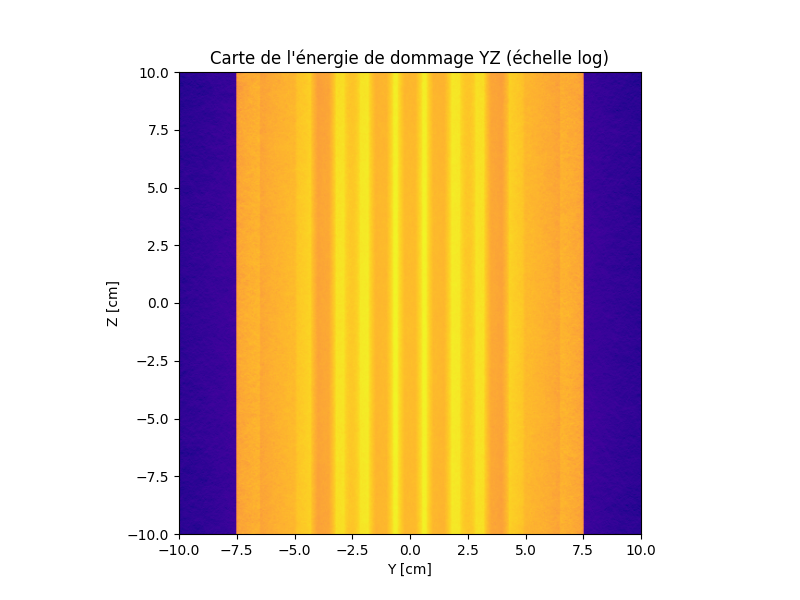
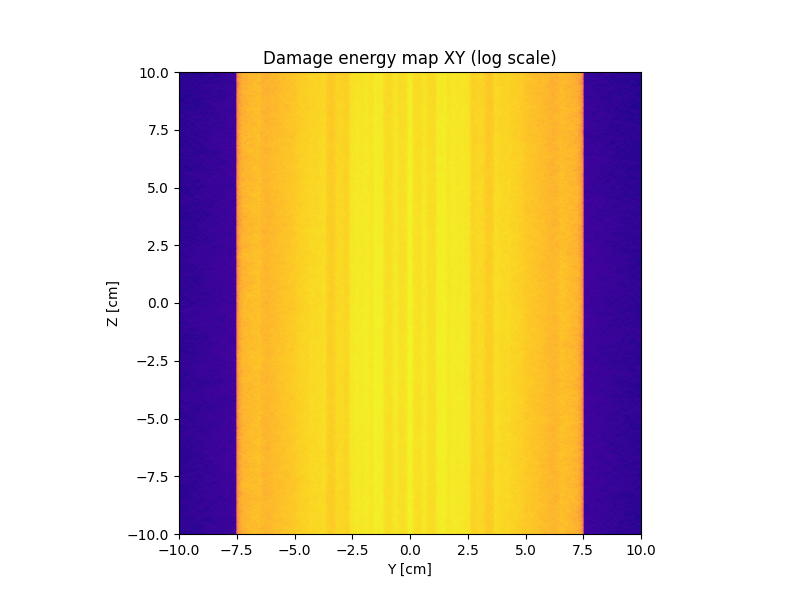
feat: add_general_prepost_func

Changed region(s): [[0.25, 0.06, 0.75, 0.9]]

diff --git a/src/studies/lattice_fuel/core.py b/src/studies/lattice_fuel/core.py
@@ -14,7 +14,7 @@ project_root = Path(__file__).resolve().parents[3]
 sys.path.append(str(project_root))
 from parameters.parameters_paths import PATH_TO_CROSS_SECTIONS
 from parameters.parameters_materials import FUEL_MATERIAL, HELIUM_MATERIAL, AIR_MATERIAL, CONCRETE_MATERIAL, GRAPHITE_MATERIAL, STEEL_MATERIAL, WATER_MATERIAL
-from src.utils.pre_processing.pre_processing import (remove_previous_results, parallelepiped, plot_geometry, mesh_tally_xy, mesh_tally_yz, 
+from src.utils.pre_processing.pre_processing import (remove_previous_results, parallelepiped, plot_geometry, mesh_tally_plane,
                                                      dammage_energy_mesh_xy, dammage_energy_mesh_yz, mesh_tally_dose_xy)
 from src.utils.post_preocessing.post_processing import load_mesh_tally, load_dammage_energy_tally, load_mesh_tally_dose
 os.environ["OPENMC_CROSS_SECTIONS"] = PATH_TO_CROSS_SECTIONS
@@ -37,7 +37,7 @@ plot_geometry(materials = material, plane="yz", width=70, height=70)
 
 # Calcul de criticité simple 
 settings = openmc.Settings()
-batches_number= 300
+batches_number= 90
 settings.batches = batches_number
 settings.inactive = 20
 settings.particles = 20000
@@ -65,29 +65,40 @@ nu_fission_tally.filters = [openmc.CellFilter(main_cell)]
 tallies = openmc.Tallies([tally, fission_tally, nu_fission_tally])
 
 # Mesh tally for neutron flux in a specific region
-mesh_tally_neutron_xy = mesh_tally_xy(name_mesh_tally = "flux_mesh_neutrons_xy", particule_type='neutron', 
+mesh_tally_neutron_xy = mesh_tally_plane(name_mesh_tally = "flux_mesh_neutrons_xy", particule_type='neutron', plane="xy",
                                       bin_number=400, lower_left=(-10.0, -10.0), upper_right=(10.0, 10.0),
-                                      z_thickness= 4.0, z_value=0.0)
+                                      thickness= 4.0, coord_value=0.0)
 tallies.append(mesh_tally_neutron_xy)
 
-mesh_tally_photon_xy = mesh_tally_xy(name_mesh_tally = "flux_mesh_photons_xy", particule_type='photon', 
-                                     bin_number=400, lower_left=(-10.0, -10.0), upper_right=(10.0, 10.0),
-                                     z_thickness= 4.0, z_value=0.0)
+mesh_tally_photon_xy = mesh_tally_plane(name_mesh_tally = "flux_mesh_photons_xy", particule_type='photon', plane="xy",
+                                      bin_number=400, lower_left=(-10.0, -10.0), upper_right=(10.0, 10.0),
+                                      thickness= 4.0, coord_value=0.0)
 tallies.append(mesh_tally_photon_xy)
 
-mesh_tally_neutron_yz = mesh_tally_yz(name_mesh_tally = "flux_mesh_neutrons_yz", particule_type='neutron', 
-                                      bin_number=1000, lower_left=(-10.0, -10.0), upper_right=(10.0, 10.0))
+mesh_tally_neutron_yz = mesh_tally_plane(name_mesh_tally = "flux_mesh_neutrons_yz", particule_type='neutron', plane="yz",
+                                      bin_number=400, lower_left=(-10.0, -10.0), upper_right=(10.0, 10.0),
+                                      thickness= 4.0, coord_value=0.0)
 tallies.append(mesh_tally_neutron_yz)
 
-mesh_tally_photon_yz = mesh_tally_yz(name_mesh_tally = "flux_mesh_photons_yz", particule_type='photon', 
-                                     bin_number=1000, lower_left=(-10.0, -10.0), upper_right=(10.0, 10.0))
+mesh_tally_photon_yz = mesh_tally_plane(name_mesh_tally = "flux_mesh_photons_yz", particule_type='photon', plane="yz",
+                                      bin_number=400, lower_left=(-10.0, -10.0), upper_right=(10.0, 10.0),
+                                      thickness= 4.0, coord_value=0.0)
 tallies.append(mesh_tally_photon_yz)
 
-dammage_energy_tally_xy = dammage_energy_mesh_xy(name_mesh_tally="dammage_energy_mesh_xy", bin_number=500, lower_left=(-10.0, -10.0), upper_right=(10.0, 10.0), z_value=0.0, z_thickness=4.0)
+
+dammage_energy_tally_xy = mesh_tally_plane(name_mesh_tally="dammage_energy_mesh_xy", bin_number=500, score='damage-energy', 
+                                           particule_type='all', plane="xy", lower_left=(-10.0, -10.0), 
+                                           upper_right=(10.0, 10.0), coord_value=0.0, thickness=4.0)
 tallies.append(dammage_energy_tally_xy)
 
-dommage_energy_tally_yz = dammage_energy_mesh_yz(name_mesh_tally="dammage_energy_mesh_yz", bin_number=500, lower_left=(-10.0, -10.0), upper_right=(10.0, 10.0), x_value=0.0, x_thickness=1.0)
-tallies.append(dommage_energy_tally_yz)
+dammage_energy_tally_yz = mesh_tally_plane(name_mesh_tally="dammage_energy_mesh_yz", bin_number=500, score='damage-energy', 
+                                           particule_type='all', plane="yz", lower_left=(-10.0, -10.0), 
+                                           upper_right=(10.0, 10.0), coord_value=0.0, thickness=4.0)
+tallies.append(dammage_energy_tally_yz)
+
+
+# dommage_energy_tally_yz = dammage_energy_mesh_yz(name_mesh_tally="dammage_energy_mesh_yz", bin_number=500, lower_left=(-10.0, -10.0), upper_right=(10.0, 10.0), x_value=0.0, x_thickness=1.0)
+# tallies.append(dommage_energy_tally_yz)
 
 mesh_tally_neutron_xy_dose = mesh_tally_dose_xy(name_mesh_tally = "flux_mesh_neutrons_xy_dose", particule_type='neutron', 
                                       bin_number=400, lower_left=(-10.0, -10.0), upper_right=(10.0, 10.0),
@@ -171,14 +182,16 @@ with open(CWD / "simulation_results.json", "w") as f:
 
 ### mesh tallty ####
 
-load_mesh_tally(cwd = CWD, statepoint_file = statepoint_file, name_mesh_tally="flux_mesh_neutrons_xy")
+load_mesh_tally(cwd = CWD, statepoint_file = statepoint_file, name_mesh_tally="flux_mesh_neutrons_xy", particule_type="neutron", bin_number=400,
+                lower_left=(-10.0, -10.0), upper_right=(10.0, 10.0), zoom_x=(-10, 10), zoom_y=(-10, 10), plane="xy")
 
-load_mesh_tally(cwd = CWD, statepoint_file = statepoint_file, name_mesh_tally="flux_mesh_photons_xy")
+load_mesh_tally(cwd = CWD, statepoint_file = statepoint_file, name_mesh_tally="flux_mesh_photons_xy", particule_type="photon", bin_number=400,
+                lower_left=(-10.0, -10.0), upper_right=(10.0, 10.0), zoom_x=(-10, 10), zoom_y=(-10, 10), plane="xy")
 
-load_mesh_tally(cwd = CWD, statepoint_file = statepoint_file, name_mesh_tally="flux_mesh_neutrons_yz", bin_number=1000,
+load_mesh_tally(cwd = CWD, statepoint_file = statepoint_file, name_mesh_tally="flux_mesh_neutrons_yz", particule_type="neutron", bin_number=400,
                 lower_left=(-40.0, -40.0), upper_right=(40.0, 40.0), zoom_x=(-40, 40), zoom_y=(-40, 40), plane="yz")
 
-load_mesh_tally(cwd = CWD, statepoint_file = statepoint_file, name_mesh_tally="flux_mesh_photons_yz", bin_number=1000,
+load_mesh_tally(cwd = CWD, statepoint_file = statepoint_file, name_mesh_tally="flux_mesh_photons_yz", particule_type="photon", bin_number=400,
                 lower_left=(-40.0, -40.0), upper_right=(40.0, 40.0), zoom_x=(-40, 40), zoom_y=(-40, 40), plane="yz")
 
 load_dammage_energy_tally(cwd = CWD, statepoint_file = statepoint_file, name_mesh_tally="dammage_energy_mesh_xy",

diff --git a/src/utils/pre_processing/pre_processing.py b/src/utils/pre_processing/pre_processing.py
@@ -372,3 +372,133 @@ def mesh_tally_dose_xy(
     mesh_tally.filters = [mesh_filter, particle_filter, energy_function_filter]
     mesh_tally.scores = ['flux']
     return mesh_tally
+
+
+
+def mesh_tally_plane(
+    plane: str = "xy",
+    name_mesh_tally: str = "flux_mesh",
+    particule_type: str = 'neutrons',
+    bin_number: int = 400,
+    lower_left = (-50.0, -50.0),
+    upper_right = (50.0, 50.0),
+    coord_value: float = 0.0,
+    thickness: float = 1.0,
+    score: str = 'flux'
+) -> object:
+    """
+    Create a mesh tally in the specified plane at a given coordinate value.
+
+    Parameters:
+        plane (str): Plane to create the mesh tally in ('xy', 'xz', or 'yz').
+        name_mesh_tally (str): Name of the tally.
+        particule_type (str): Particle type.
+        bin_number (int): Number of bins in each direction.
+        lower_left (tuple): Lower left corner of the mesh (2D).
+        upper_right (tuple): Upper right corner of the mesh (2D).
+        coord_value (float): Coordinate value for the orthogonal axis.
+        thickness (float): Thickness along the orthogonal axis.
+        score (str): Tally score (e.g., 'flux', 'current', 'fission', etc.).
+
+    Returns:
+        openmc.Tally: The mesh tally object.
+    """
+    mesh = openmc.RegularMesh()
+    if plane == "xy":
+        mesh.dimension = [bin_number, bin_number, 1]
+        mesh.lower_left = (lower_left[0], lower_left[1], coord_value - thickness / 2)
+        mesh.upper_right = (upper_right[0], upper_right[1], coord_value + thickness / 2)
+    elif plane == "xz":
+        mesh.dimension = [bin_number, 1, bin_number]
+        mesh.lower_left = (lower_left[0], coord_value - thickness / 2, lower_left[1])
+        mesh.upper_right = (upper_right[0], coord_value + thickness / 2, upper_right[1])
+    elif plane == "yz":
+        mesh.dimension = [1, bin_number, bin_number]
+        mesh.lower_left = (coord_value - thickness / 2, lower_left[0], lower_left[1])
+        mesh.upper_right = (coord_value + thickness / 2, upper_right[0], upper_right[1])
+    else:
+        raise ValueError("plane must be 'xy', 'xz', or 'yz'")
+
+    mesh_filter = openmc.MeshFilter(mesh)
+    mesh_tally = openmc.Tally(name=name_mesh_tally)
+    if particule_type != 'all':
+            particle_filter = openmc.ParticleFilter([particule_type])
+            mesh_tally.filters = [mesh_filter, particle_filter]
+    else:
+        mesh_tally.filters = [mesh_filter]
+    mesh_tally.scores = [score]
+    return mesh_tally
+
+# def plot_geometry_bw(
+#     materials: list,
+#     plane: str = "xy",
+#     width: float = 10.0,
+#     height: float = 10.0,
+#     origin: tuple = (0, 0, 0),
+#     pixels: tuple = (600, 600),
+#     dpi: int = 300,
+#     color_by: str = 'material',
+#     saving_figure: bool = True
+# ):
+#     """
+#     Plots the OpenMC geometry in a specified plane.
+#     """
+#     # Set up plot object
+#     plot = openmc.Plot()
+#     plot.origin = origin
+#     plot.width = (width, height)
+#     plot.pixels = pixels
+#     plot.color_by = color_by
+#     plot.basis = plane
+#     plot.filename = f"plot_openmc_{plane}.png"
+#     plot.overlap_color = "black"  # Set overlap color for better visibility
+    
+#     # Assign colors to materials
+#     default_colors = [
+#         "white", "white", "white", "white", "white",
+#         "white", "white", "white", "white", "white"
+#     ]
+#     colors = (default_colors * ((len(materials) + len(default_colors) - 1) // len(default_colors)))[:len(materials)]
+#     plot.colors = {mat: color for mat, color in zip(materials, colors)}
+
+#     # Plane basis and axis values
+#     if plane == "xy":
+#         x_vals = np.linspace(origin[0] - width / 2, origin[0] + width / 2, pixels[0])
+#         y_vals = np.linspace(origin[1] - height / 2, origin[1] + height / 2, pixels[1])
+#         xlabel, ylabel = "X (cm)", "Y (cm)"
+#     elif plane == "xz":
+#         x_vals = np.linspace(origin[0] - width / 2, origin[0] + width / 2, pixels[0])
+#         y_vals = np.linspace(origin[2] - height / 2, origin[2] + height / 2, pixels[1])
+#         xlabel, ylabel = "X (cm)", "Z (cm)"
+#     elif plane == "yz":
+#         x_vals = np.linspace(origin[1] - width / 2, origin[1] + width / 2, pixels[0])
+#         y_vals = np.linspace(origin[2] - height / 2, origin[2] + height / 2, pixels[1])
+#         xlabel, ylabel = "Y (cm)", "Z (cm)"
+#     else:
+#         raise ValueError("plane must be 'xy', 'xz', or 'yz'")
+
+#     # Export and plot geometry
+#     openmc.Plots([plot]).export_to_xml()
+#     openmc.plot_geometry()
+
+#     # Load and display image
+#     img = Image.open(plot.filename)
+#     plt.imshow(img)
+#     plt.title(f"OpenMC Geometry Plot - {plane.upper()} Plane")
+#     plt.grid(True, which='both', color='gray', linestyle='--', linewidth=0.5, alpha=0.5)
+#     plt.xticks(
+#         np.linspace(0, img.size[0], num=7),
+#         [f"{x:.2f}" for x in np.linspace(np.min(x_vals), np.max(x_vals), num=7)]
+#     )
+#     plt.yticks(
+#         np.linspace(0, img.size[1], num=7),
+#         [f"{y:.2f}" for y in np.linspace(np.max(y_vals), np.min(y_vals), num=7)]
+#     )
+#     plt.xlabel(xlabel)
+#     plt.ylabel(ylabel)
+#     if saving_figure:
+#         print(f"Saving figure as plot_{plane}.png")
+#         # plt.savefig(f"plot_{plane}.png", dpi=dpi, bbox_inches='tight')
+#     os.remove(plot.filename)
+#     plt.tight_layout()
+#     plt.show()

diff --git a/src/utils/post_preocessing/post_processing.py b/src/utils/post_preocessing/post_processing.py
@@ -12,7 +12,7 @@ def print_calculation_finished():
     print("######################################################")
 
 
-def load_mesh_tally(cwd, statepoint_file: object, name_mesh_tally:str = "flux_mesh_tally", 
+def load_mesh_tally(cwd, statepoint_file: object, name_mesh_tally:str = "flux_mesh_tally", particule_type:str='neutron',
                     bin_number:int=400, lower_left:tuple=(-10.0, -10.0), 
                     upper_right:tuple=(10.0, 10.0), zoom_x:tuple=(-10, 10), 
                     zoom_y:tuple=(-10.0, 10.0), plane:str = "xy", saving_figure:bool = True):
@@ -42,15 +42,15 @@ def load_mesh_tally(cwd, statepoint_file: object, name_mesh_tally:str = "flux_me
             norm=LogNorm(vmin=np.min(flux_data[flux_data!=0]), vmax=flux_data.max()))  
     plt.colorbar(label='Flux [a.u.] (log scale)')
     if plane == "xy":
-        plt.title('Flux map XY (log scale)')
+        plt.title(f"Flux map XY {particule_type} (log scale)")
         plt.xlabel('X [cm]')
         plt.ylabel('Y [cm]')
     elif plane == "xz":
-        plt.title('Flux map XY (log scale)')
+        plt.title(f'Flux map XY {particule_type} (log scale)')
         plt.xlabel('X [cm]')
         plt.ylabel('Z [cm]')
     elif plane == "yz":
-        plt.title('Flux map XY (log scale)')
+        plt.title(f'Flux map XY {particule_type} (log scale)')
         plt.xlabel('Y [cm]')
         plt.ylabel('Z [cm]')
     else:
